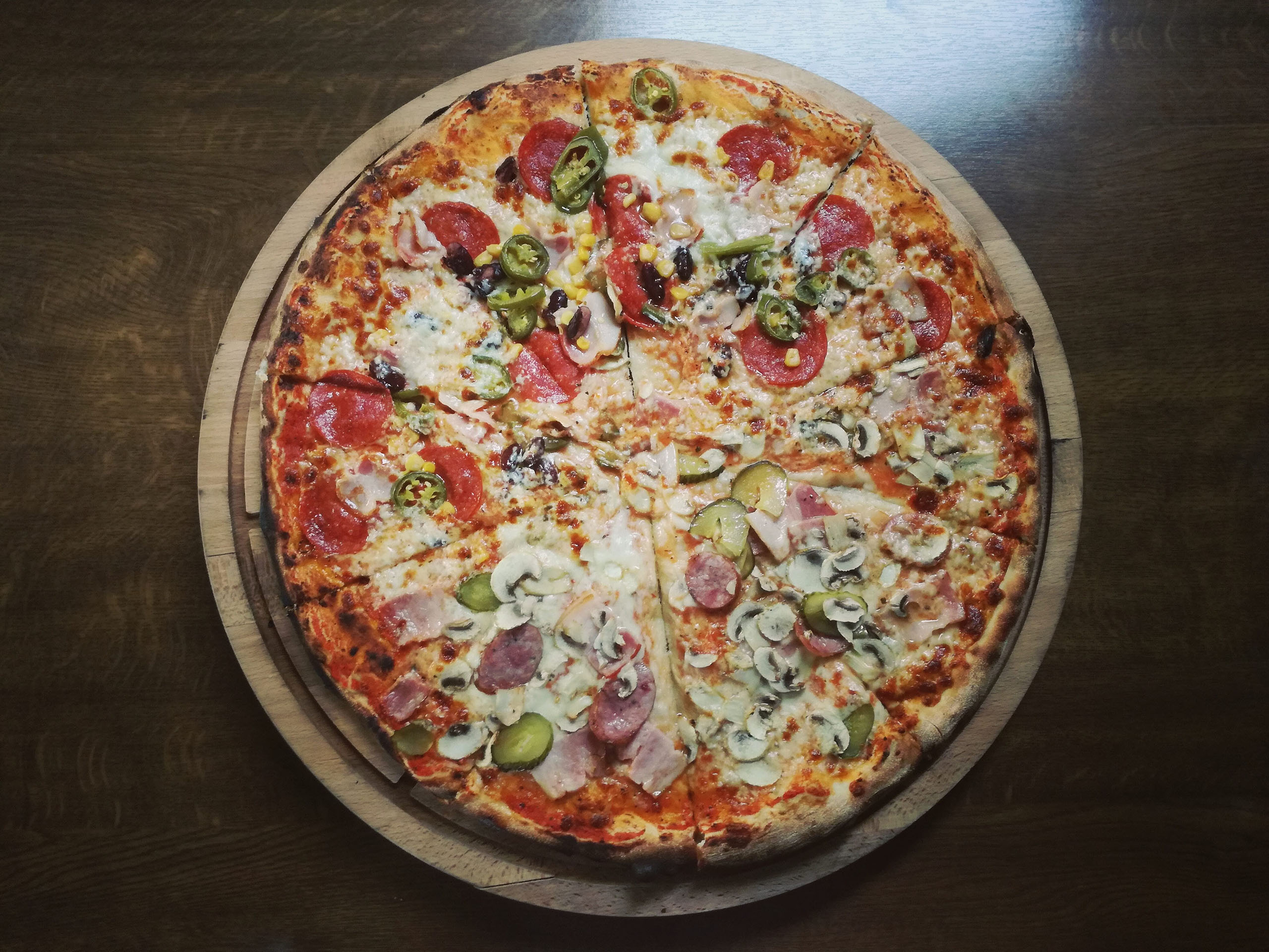
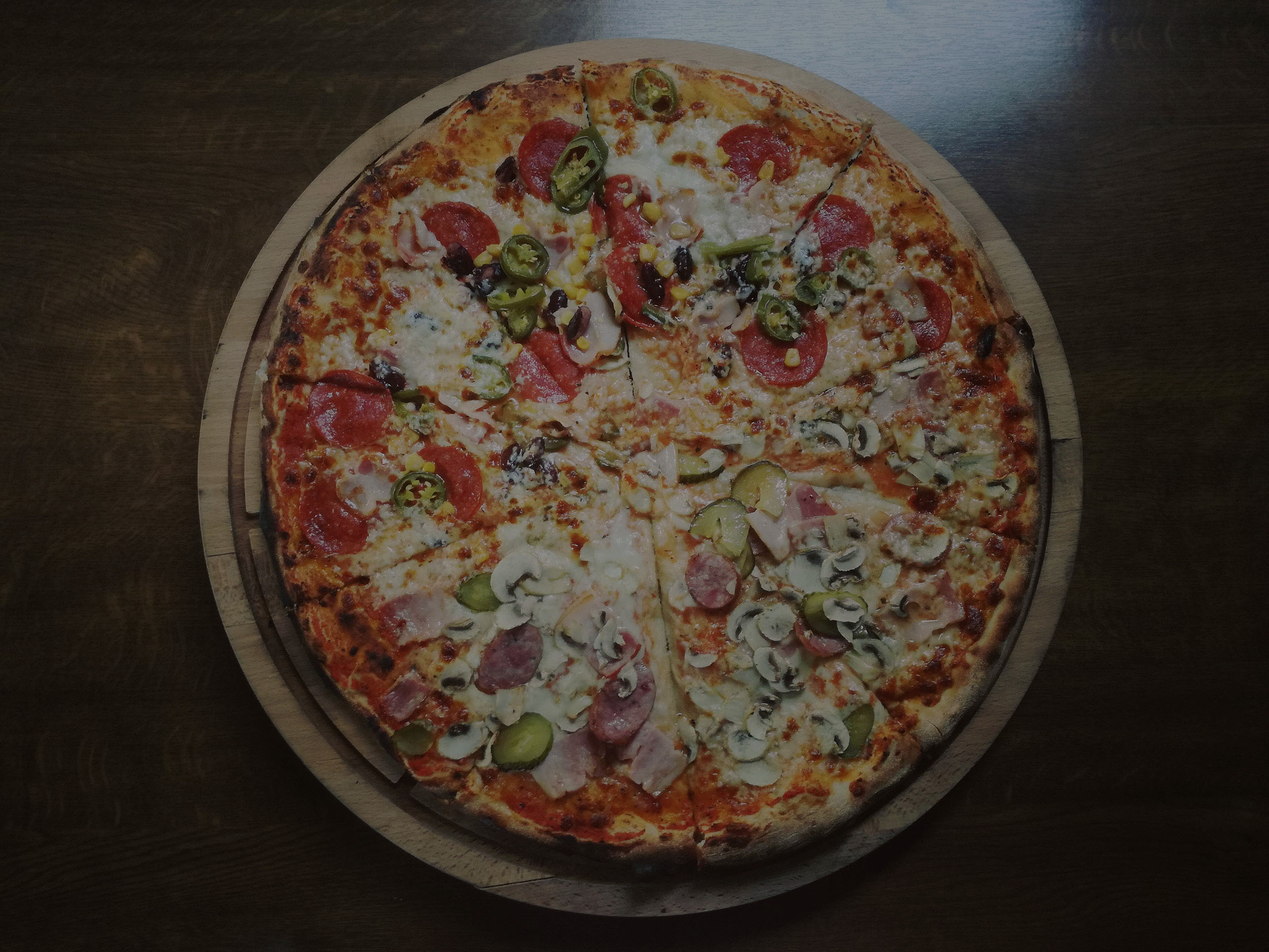
Stylistic design fixes

diff --git a/index.css b/index.css
@@ -21,7 +21,7 @@ body {
     background: #000000;
     top: 0;
     position: sticky;
-    opacity: 0.6;
+    opacity: 0.8;
 }
 
 .nav-link,
@@ -106,14 +106,14 @@ span,
 }
 
 #openHoursInfo {
-    font-size: 4rem;
+    font-size: 3.5rem;
     color: #ffffff;
     padding-top: 80px;
     margin-bottom: 0;
 }
 
 #openHoursTitle {
-    color: #818080;
+    color: #ffffff;
     padding-top: 100px;
 }
 
@@ -121,6 +121,7 @@ span,
 #meny {
     width: 100vw;
     min-height: 100vh;
+    background-color: rgba(0, 0, 0, 0.808);
     background-image: url('images/pizzamenubackground.jpg');
     background-size: cover;
     background-position: center;
@@ -134,14 +135,12 @@ span,
 
 #pizzaContainer {
     color: white;
-    background-color: rgba(5, 5, 5, 0.315);
+    background-color: rgba(0, 0, 0, 0.486);
     min-height: 70vh;
     width: 40vw;
     margin-top: 5vh;
-    border-style: solid;
-    border-width: 3px;
-    border-radius: 20px;
-    border-color: #000000;
+    border-radius: 5%;
+    box-shadow: 0 14px 28px rgba(0, 0, 0, 0.25), 0 10px 10px rgba(0, 0, 0, 0.22);
     margin-left: auto;
     margin-right: auto;
 }
@@ -177,17 +176,16 @@ span,
 #googleMap {
     margin-top: 5vh;
     margin-left: 10vh;
-    border-color: rgb(255, 255, 255);
-    border-width: 5px;
-    border-radius: 5%;
-    border-style: solid;
+    box-shadow: 0 14px 28px rgba(0, 0, 0, 0.25), 0 10px 10px rgba(0, 0, 0, 0.22);
+    border-style: none;
     width: 40vw;
+    border-radius: 25px;
     height: 60vh;
 }
 
 #findUsTitle {
     text-align: center;
-    color: #818080;
+    color: #ffffff;
 }
 
 #infoBox {
@@ -197,16 +195,14 @@ span,
     width: 40vw;
     float: right;
     margin-top: 5vh;
-    border-style: solid;
-    border-width: 5px;
-    border-radius: 5%;
+    box-shadow: 0 14px 28px rgba(0, 0, 0, 0.25), 0 10px 10px rgba(0, 0, 0, 0.22);
+    border-radius: 25px;
     border-color: #fff;
     text-align: center;
 }
 
 .fu-info-main {
-    font-size: 3rem;
-    text-decoration: underline;
+    font-size: 4rem;
     font-weight: bold;
     margin-top: 2vh;
 }
@@ -295,12 +291,12 @@ h6 {
     }
 
     #openHoursTitle {
-        color: #818080;
+        color: #ffffff;
         padding-top: 80px;
     }
 
     #openHoursInfo {
-        font-size: 2.5vw;
+        font-size: 2vw;
         color: #fff;
         padding-top: 30px;
     }
@@ -346,11 +342,11 @@ h6 {
 
     #googleMap {
         margin-right: 6vw;
+        box-shadow: 0 14px 28px rgba(0, 0, 0, 0.25), 0 10px 10px rgba(0, 0, 0, 0.22);
     }
 
     .fu-info-main {
         font-size: 3rem;
-        text-decoration: underline;
         font-weight: bold;
         margin-top: 2vh;
     }
@@ -409,7 +405,6 @@ h6 {
 @media (max-width: 500px) {
     .navbar {
         z-index: 900;
-        background: #000000c5;
         top: 0;
         position: sticky;
     }
@@ -440,7 +435,7 @@ h6 {
     }
 
     #openHoursInfo {
-        font-size: 2.5rem;
+        font-size: 2rem;
         color: #fff;
         padding-bottom: 40px;
     }
@@ -457,7 +452,7 @@ h6 {
         border-radius: 0;
         border-width: 1px;
         border-style: none;
-        background-color: #00000025;
+        background-color: #00000000;
     }
 
     #menuDesc {
@@ -491,16 +486,12 @@ h6 {
         width: 100vw;
         margin-top: 6vh;
         margin-left: 0vh;
-
         border-color: rgb(0, 0, 0);
-        border-width: 0px;
         border-radius: 2%;
-        border-style: outset;
     }
 
     .fu-info-main {
         font-size: 2rem;
-        text-decoration: underline;
         font-weight: bold;
         margin-top: 2vh;
     }

diff --git a/index.html b/index.html
@@ -212,9 +212,6 @@
 		<h1 id="findUsTitle">Hitta oss</h1>
 		<div class="flex-container">
 			<div id="infoBox" class="flex-child">
-				<h1 class="fu-info-main">
-					Vår information
-				</h1>
 				<h2 class="fu-info-main">
 					Adress
 				</h2>
@@ -267,7 +264,7 @@
 					</div>
 					<div class="col-md-2 col-lg-2 col-xl-2 mx-auto mb-4">
 						<p>
-							<a id="homePageFooter" href="#" class="text-reset">Rafiki</a>
+							<a id="homePageFooter" href="#" class="text-reset">Hem</a>
 						</p>
 						<p>
 							<a id="openHoursFooter" href="#oppettider" class="text-reset">Öppettider</a>

diff --git a/testing/tests.py b/testing/tests.py
@@ -139,9 +139,10 @@ class TestWebsite(TestCase):
     def testFooterLinks(self):
         self.browser.get(path.join(getcwd(), "index.html"))
         footer = self.browser.find_element(By.CLASS_NAME, "footer")
+        self.assertIn("Hem", footer.text)
         self.assertIn("Öppettider", footer.text)
+        self.assertIn("Meny", footer.text)
         self.assertIn("Hitta oss", footer.text)
-        self.assertIn("Rafiki", footer.text)
 
     def testHomePage(self):
         self.browser.get(path.join(getcwd(), "index.html"))
